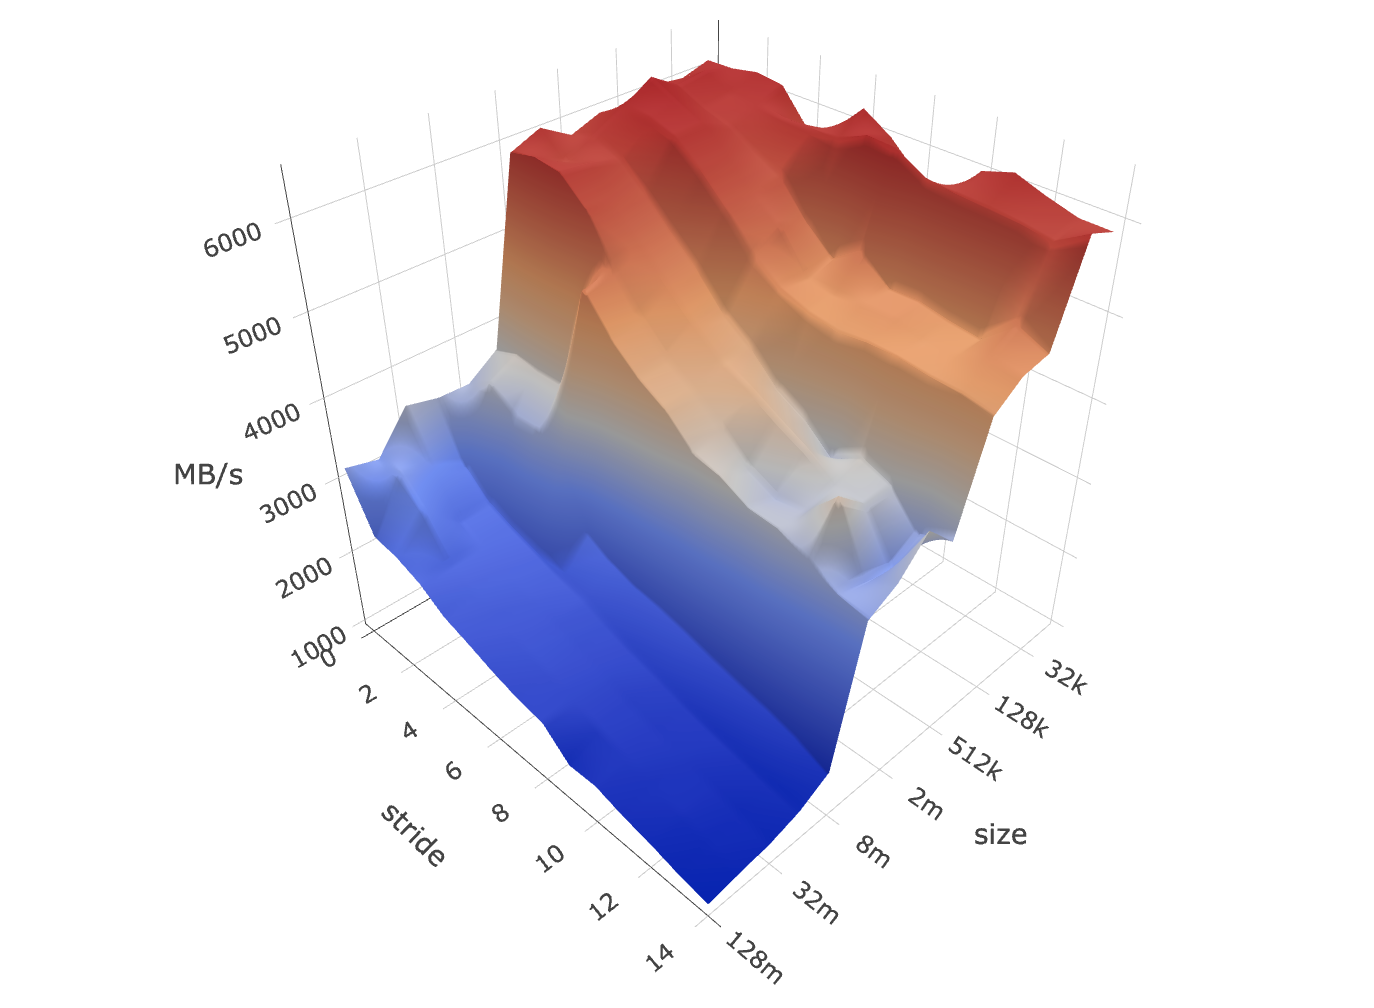
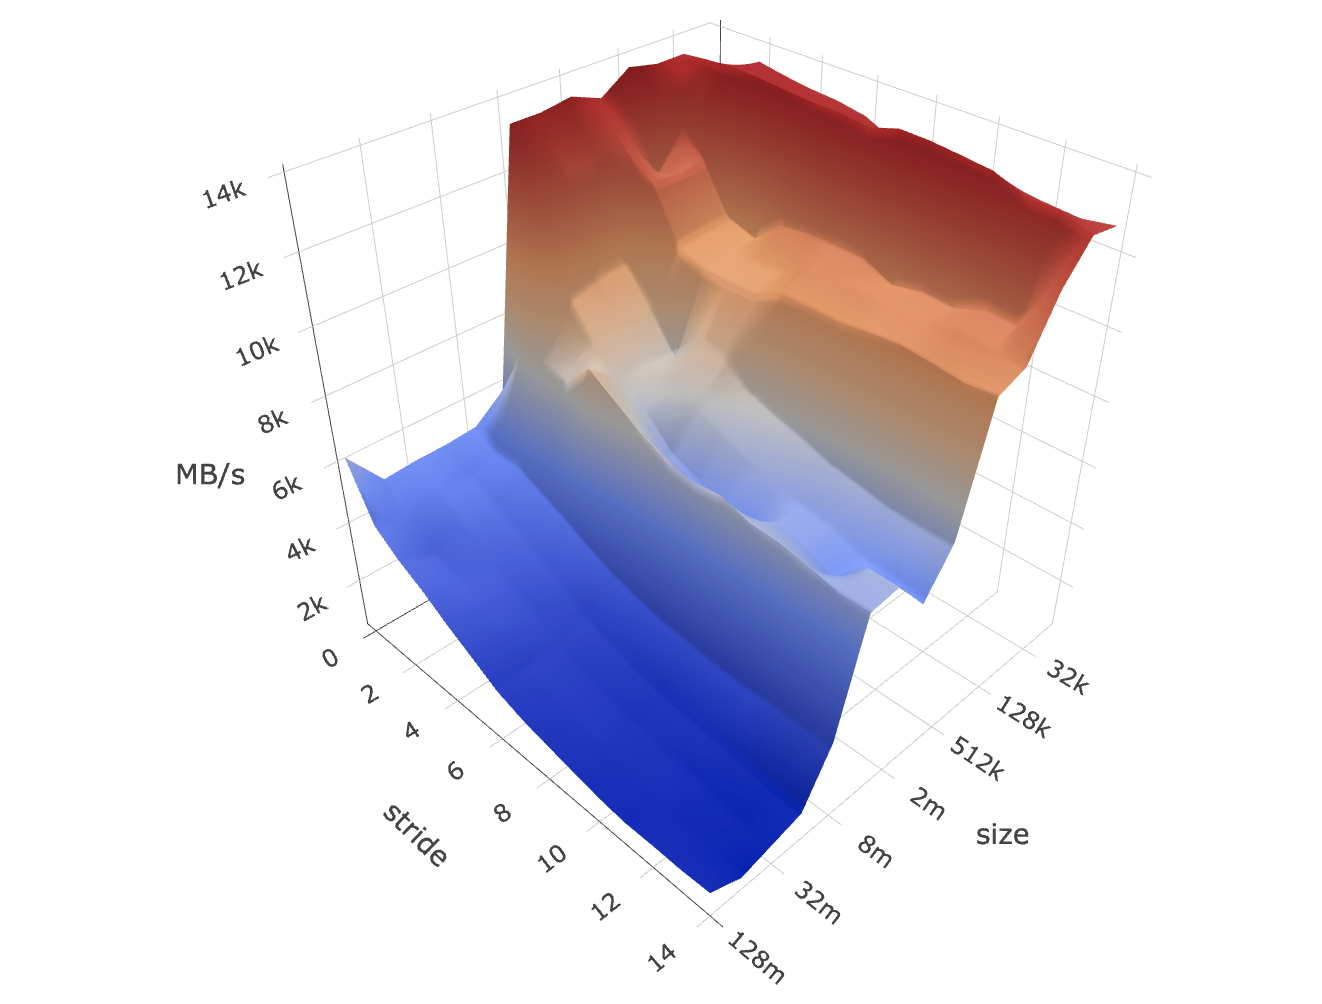
Use float64

diff --git a/src/subjs/subj-mem/core.worker.js b/src/subjs/subj-mem/core.worker.js
@@ -2,9 +2,9 @@ const MINBYTES = 1 << 14;   /* First working set size */
 const MAXBYTES = 1 << 27;   /* Last working set size */
 const MAXSTRIDE = 15;       /* Stride x8 bytes */
 
-// The original C implementation uses data type long which is 64-bit on Linux,
-// but unfortunately not all browsers support 64-bit integer buffer array.
-const data = new Float32Array(new ArrayBuffer(MAXBYTES));
+// Note that the original C implementation uses data type long which is 64-bit on 64-bit Linux.
+// Since JavaScript represents numbers in double, I'll go with it.
+const data = new Float64Array(new ArrayBuffer(MAXBYTES));
 for (let i = 0; i < data.length; i++) {
     data[i] = i;
 }
@@ -12,13 +12,13 @@ for (let i = 0; i < data.length; i++) {
 function test(elems, stride) {
     let acc0 = 0;
     for (let i = 0; i < elems; i += stride) {
-        acc0 = data[i]; // It seems JS runtime engines never optimize this...
+        acc0 = data[i];
     }
     return acc0;
 }
 
 function run(size, stride) {
-    let elems = size / 4;
+    let elems = size / 8;
 
     // Due to browsers' limit on time resolution, I have no option but to repeat lots of times.
     let repeat = MAXBYTES / size * stride;
